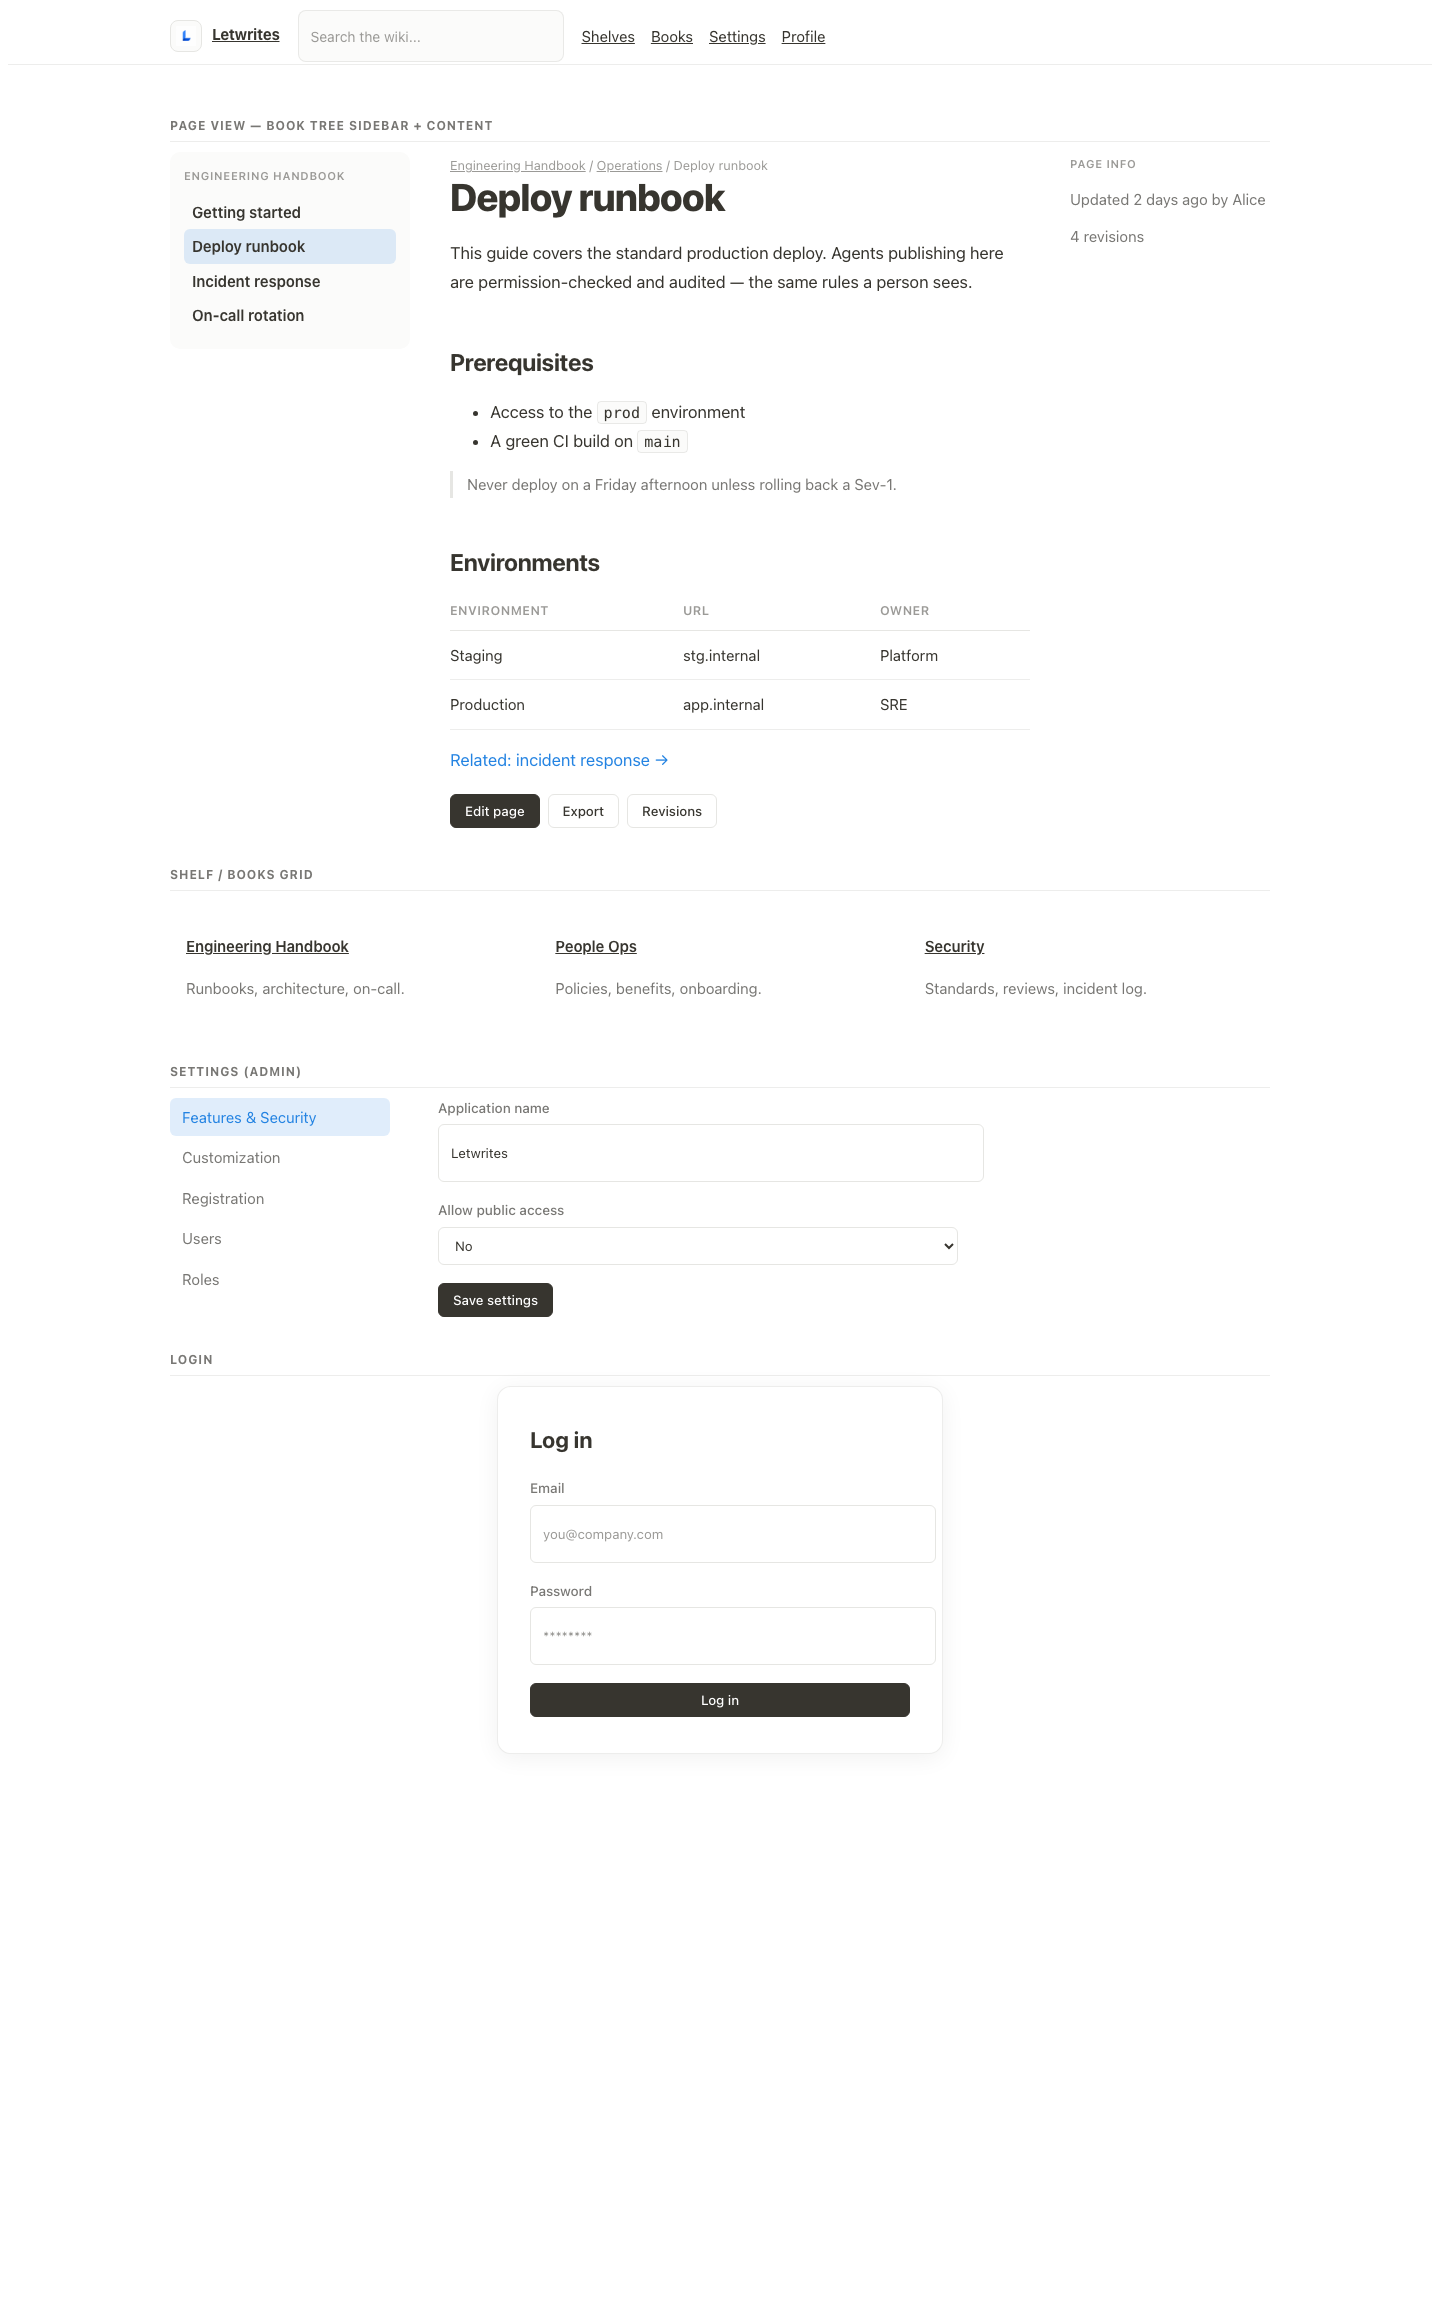
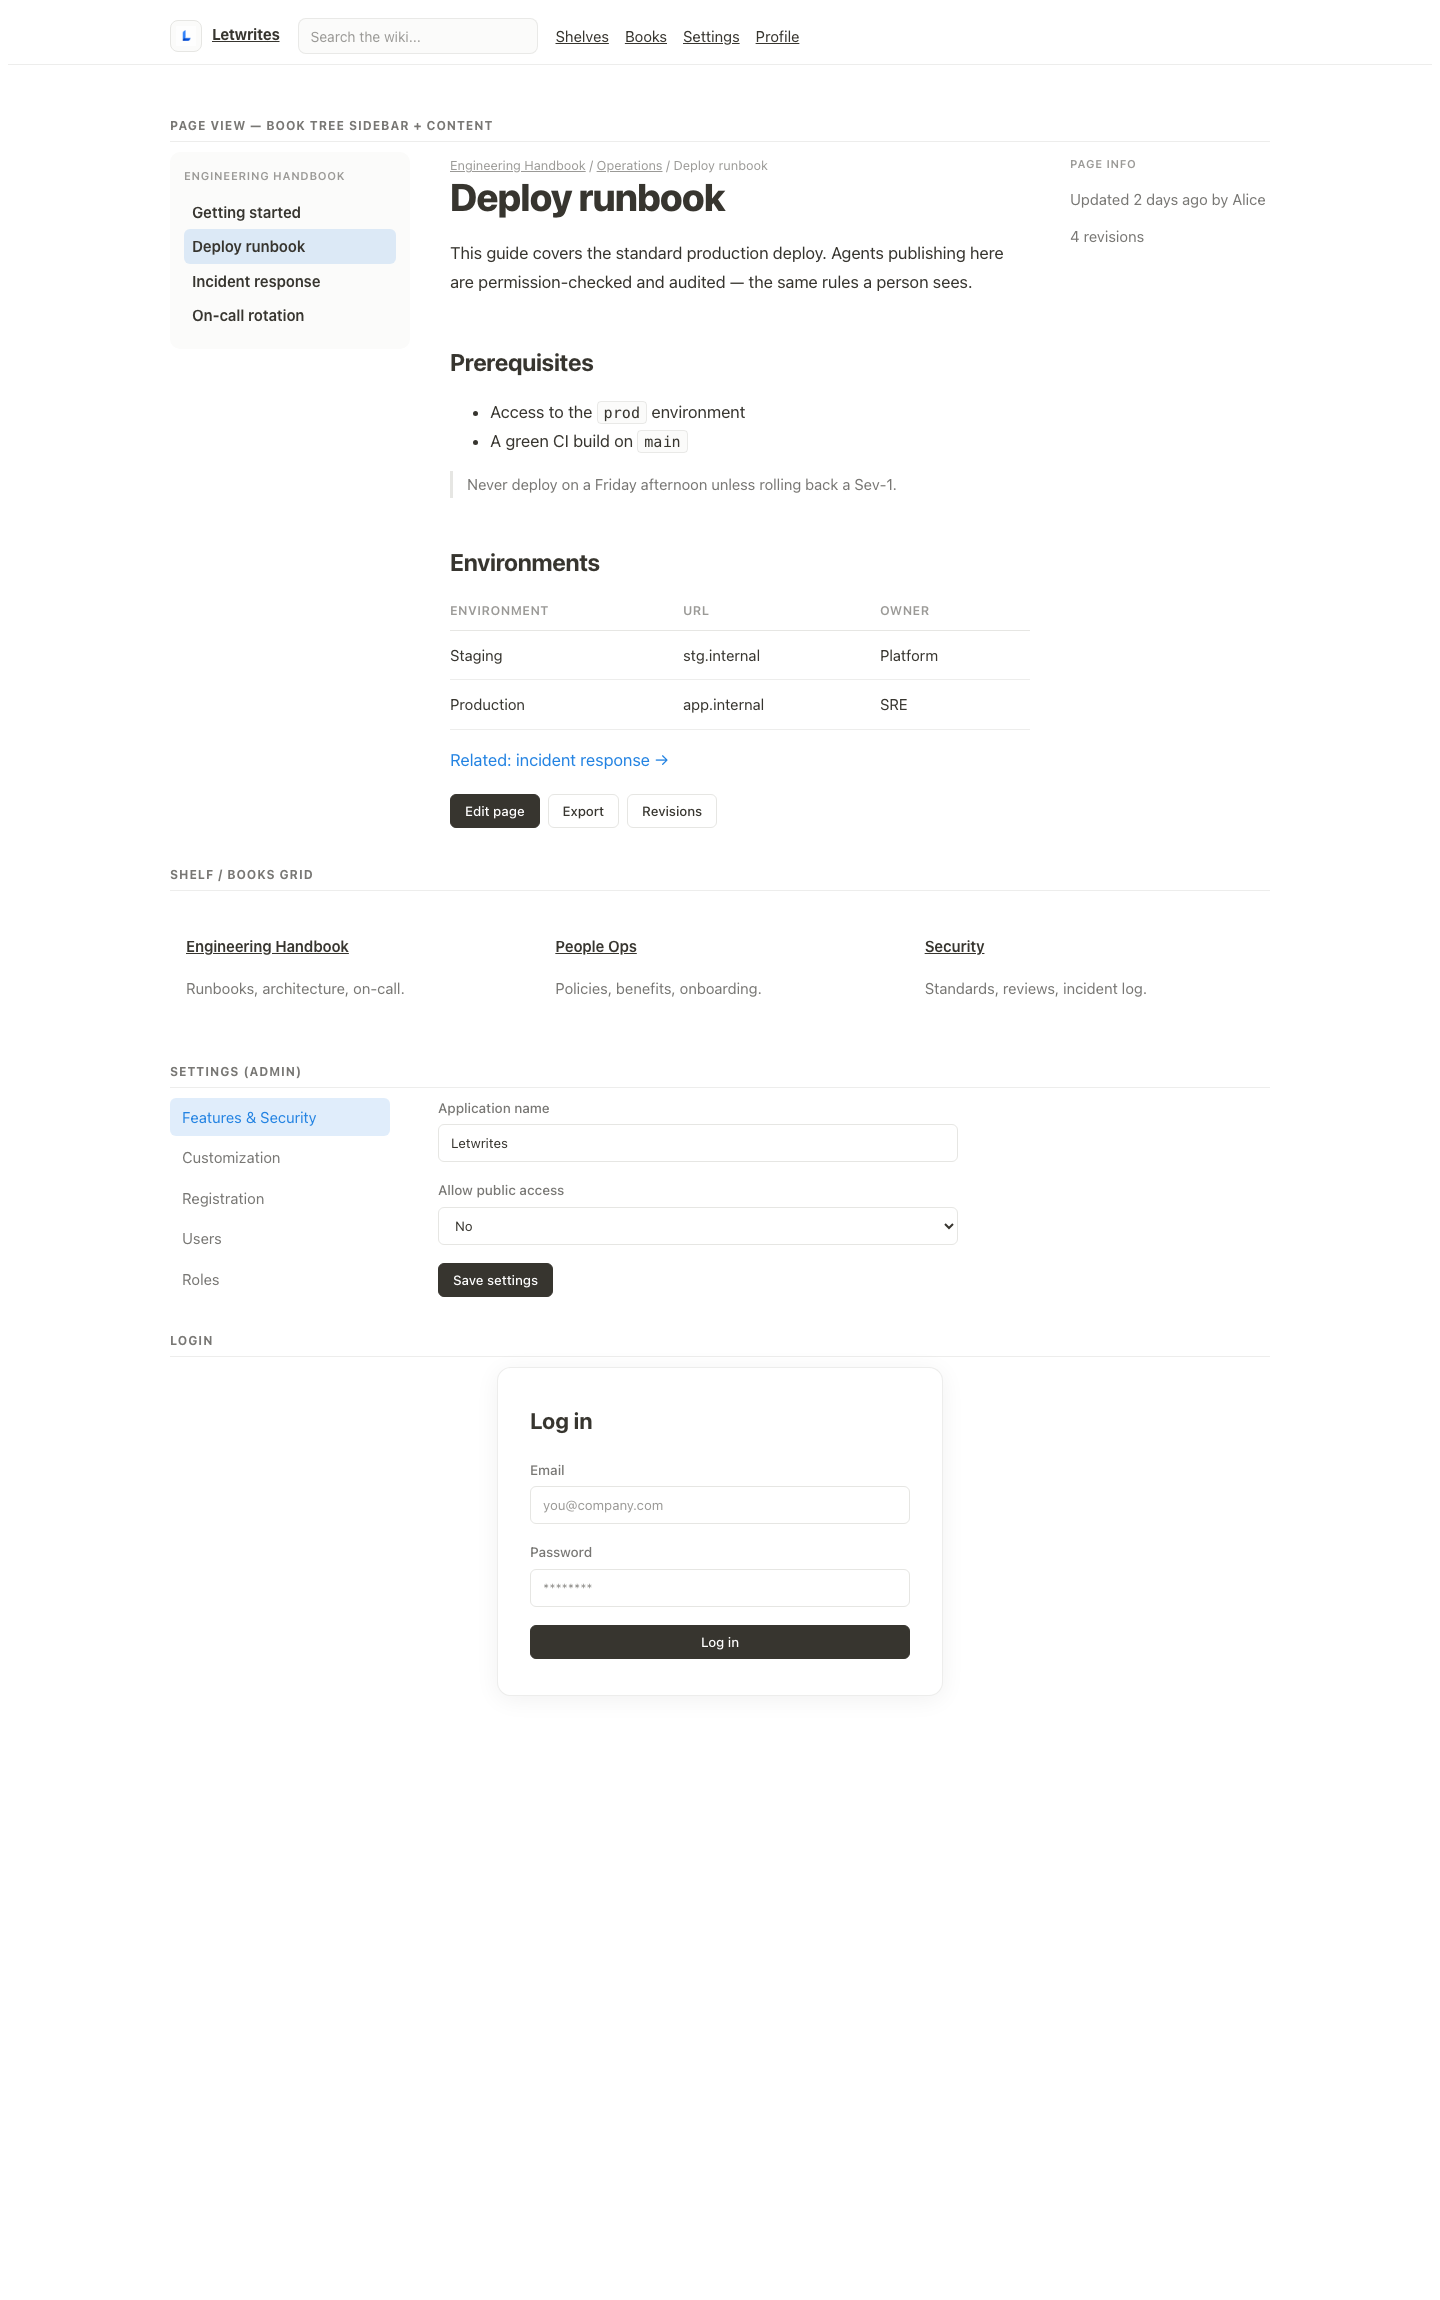
fix(theme): box-sizing border-box on form controls — inputs now align with buttons
Measured root cause: inputs were content-box (width:100% + padding/border = 446px) while
buttons were border-box (420px), so fields never lined up with the button/card edge. Added
box-sizing:border-box to all form controls; re-measured: input 420 == button 420, aligned.

Changed region(s): [[0.3438, 0.6174, 0.6562, 0.7717], [0.3125, 0.4939, 0.4062, 0.5865], [0.5, 0.0, 0.5312, 0.0309]]

diff --git a/wiki/themes/letwrites/branding.css b/wiki/themes/letwrites/branding.css
@@ -84,6 +84,8 @@ body,.page-content,input,select,textarea,button,.button,.text-button{
 }
 body{ background:var(--lw-bg); color:var(--lw-text); font-size:15px; line-height:1.5; }
 h1,h2,h3,h4,h5,h6{ color:var(--lw-text); }
+/* border-box so width:100% means EXACTLY the container width (fixes input vs button misalignment) */
+input,select,textarea,button,.button,a.button,input[type=submit]{ box-sizing:border-box !important; }
 
 /* ---- Center the app; kill the giant right margin / interior gap ---- */
 #content,.tri-layout-container,.container{ max-width:1180px; margin-left:auto; margin-right:auto; }

diff --git a/wiki/themes/letwrites/preview/after.html b/wiki/themes/letwrites/preview/after.html
@@ -66,6 +66,8 @@ body,.page-content,input,select,textarea,button,.button,.text-button{
 }
 body{ background:var(--lw-bg); color:var(--lw-text); font-size:15px; line-height:1.5; }
 h1,h2,h3,h4,h5,h6{ color:var(--lw-text); }
+/* border-box so width:100% means EXACTLY the container width (fixes input vs button misalignment) */
+input,select,textarea,button,.button,a.button,input[type=submit]{ box-sizing:border-box !important; }
 
 /* ---- Center the app; kill the giant right margin / interior gap ---- */
 #content,.tri-layout-container,.container{ max-width:1180px; margin-left:auto; margin-right:auto; }
